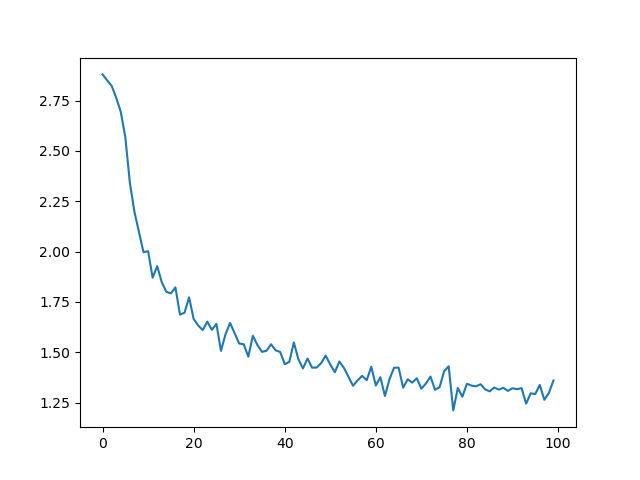
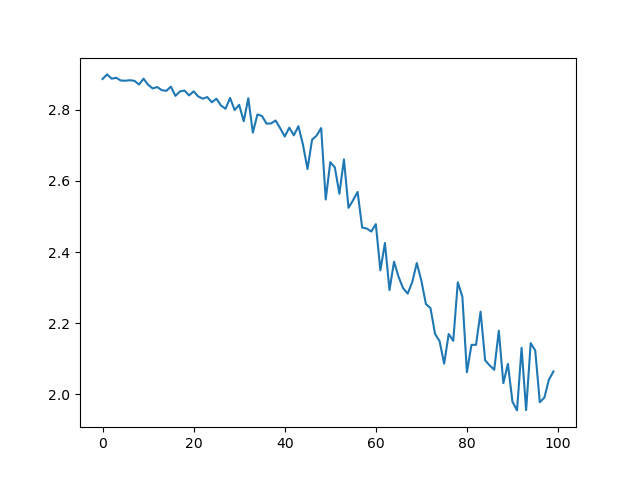
rnn calssified for names is working

diff --git a/my_research/rnn_name_classifiying.py b/my_research/rnn_name_classifiying.py
@@ -4,6 +4,9 @@ import os
 import unicodedata
 import string
 
+import math 
+import time
+import random
 import torch
 import torch.nn as nn
 
@@ -13,29 +16,34 @@ import torch.nn as nn
 
 
 class UtilityService:
-    def __init__(self):
-        self.DATA_PATH = 'my_research/data/'
-        self.all_letters = string.ascii_letters + " .,;'"
-        self.n_letters = len(self.all_letters)
+    DATA_PATH = 'my_research/data/'
+    all_letters = string.ascii_letters + " .,;'"
+    n_letters = len(all_letters)
     
     @staticmethod
     def findFiles(path):
         return glob.glob(path)
 
     # Turn a Unicode string to plain ASCII, thanks to https://stackoverflow.com/a/518232/2809427
-    @staticmethod
-    def unicodeToAscii(s):
+    def unicodeToAscii(self, s):
         return "".join(
             c
             for c in unicodedata.normalize("NFD", s)
-            if unicodedata.category(c) != "Mn" and c in UtilityService.all_letters
+            if unicodedata.category(c) != "Mn" and c in self.all_letters
     )
 
     # Read a file and split into lines
-    @staticmethod
-    def readLines(filename):
+    def readLines(self, filename):
         lines = open(filename, encoding="utf-8").read().strip().split("\n")
-        return [UtilityService.unicodeToAscii(line) for line in lines]
+        return [self.unicodeToAscii(line) for line in lines]
+    
+    @staticmethod
+    def timeSince(since):
+        now = time.time()
+        s = now - since
+        m = math.floor(s / 60)
+        s -= m * 60
+        return '%dm %ds' % (m, s)
 
 
 class CategoryService:
@@ -53,19 +61,14 @@ class CategoryService:
             lines = self._utility_service.readLines(filename)
             self.category_lines[category] = lines
             
-    def categoryFromOutput(self, output, all_categories):
+    def categoryFromOutput(self, output):
         top_n, top_i = output.topk(1)
         category_i = top_i[0].item()
-        return all_categories[category_i], category_i
+        return self.all_categories[category_i], category_i
 
-    # n_categories = len(all_categories)
-
-
-
-###########   PART 2   ################
 
 class TorchLetterUtilityService:
-    # Find letter index from all_letters, e.g. "a" = 0
+
     @staticmethod
     def letterToIndex(letter):
         return UtilityService.all_letters.find(letter)
@@ -85,10 +88,18 @@ class TorchLetterUtilityService:
         for li, letter in enumerate(line):
             tensor[li][0][TorchLetterUtilityService.letterToIndex(letter)] = 1
         return tensor
+    
+    @staticmethod
+    def randomChoice(l):
+        return l[random.randint(0, len(l) - 1)]
 
-
-#############      PART 3         #############
-
+    @staticmethod
+    def randomTrainingExample(category_service: CategoryService):
+        category = TorchLetterUtilityService.randomChoice(category_service.all_categories)
+        line = TorchLetterUtilityService.randomChoice(category_service.category_lines[category])
+        category_tensor = torch.tensor([category_service.all_categories.index(category)], dtype=torch.long)
+        line_tensor = TorchLetterUtilityService.lineToTensor(line)
+        return category, line, category_tensor, line_tensor
 
 
 class RNN(nn.Module):
@@ -156,99 +167,46 @@ class RNN(nn.Module):
                 category_index = topi[0][i].item()
                 print('(%.2f) %s' % (value, category_service.all_categories[category_index]))
                 predictions.append([value, category_service.all_categories[category_index]])
-    
-    
-
-category_service = CategoryService()
-utils = UtilityService()
-n_categories = len(category_service.all_categories)
-n_hidden = 128
-rnn = RNN(utils.n_letters, n_hidden, n_categories, category_service)
-
-
-
-###########     PART 4       #########
-
-import random
-
-def randomChoice(l):
-    return l[random.randint(0, len(l) - 1)]
-
-def randomTrainingExample():
-    category = randomChoice(all_categories)
-    line = randomChoice(category_lines[category])
-    category_tensor = torch.tensor([all_categories.index(category)], dtype=torch.long)
-    line_tensor = lineToTensor(line)
-    return category, line, category_tensor, line_tensor
-
-
-##############   PART 5     #########
-
-
-
-
-
-
-
-##############   PART 6    #########
-
-import time
-import math
-
-n_iters = 100000
-print_every = 5000
-plot_every = 1000
-
-# Keep track of losses for plotting
-current_loss = 0
-all_losses = []
-
-def timeSince(since):
-    now = time.time()
-    s = now - since
-    m = math.floor(s / 60)
-    s -= m * 60
-    return '%dm %ds' % (m, s)
-
 
 
 
 if __name__ == '__main__':
-    # print(findFiles(f"{DATA_PATH}names/*.txt"))
-    # print(unicodeToAscii("Ślusàrski"))
-    # print(f'All letters: {all_letters}, letters length: {n_letters}')   # 57 n_letters
-    # print(all_categories, category_lines['Polish'])
-    # print(category_lines['Italian'][:5])
-    # print(letterToTensor('J'), letterToTensor('K').shape)
-    # print(lineToTensor('Jones').size())
-    # print(n_categories)       #  18
-    # input = lineToTensor('Albert')
-    # hidden = torch.zeros(1, n_hidden)
-
-    # output, next_hidden = rnn(input[0], hidden)
-    # print(output)
-    # print(categoryFromOutput(output))
-    
     import matplotlib.pyplot as plt
     import matplotlib.ticker as ticker
+
+    
+    category_service = CategoryService()
+    utils = UtilityService()
+    n_categories = len(category_service.all_categories)
+    n_hidden = 128
+    rnn = RNN(utils.n_letters, n_hidden, n_categories, category_service)
+    
+    n_iters = 10000
+    print_every = 500
+    plot_every = 100
+
+    # Keep track of losses for plotting
+    current_loss = 0
+    all_losses = []
+
     
     for i in range(10):
-        category, line, category_tensor, line_tensor = randomTrainingExample()
+        category, line, category_tensor, line_tensor = TorchLetterUtilityService.randomTrainingExample(category_service)
         print('category =', category, '/ line =', line)
     
     
     start = time.time()
 
     for iter in range(1, n_iters + 1):
-        category, line, category_tensor, line_tensor = randomTrainingExample()
-        output, loss = train(category_tensor, line_tensor)
+        category, line, category_tensor, line_tensor = TorchLetterUtilityService.randomTrainingExample(category_service)
+        output, loss = rnn.train(category_tensor, line_tensor)
         current_loss += loss
 
         # Print ``iter`` number, loss, name and guess
         if iter % print_every == 0:
-            guess, guess_i = categoryFromOutput(output, category_service.all_categories)
+            guess, guess_i = category_service.categoryFromOutput(output)
             correct = '✓' if guess == category else '✗ (%s)' % category
-            print('%d %d%% (%s) %.4f %s / %s %s' % (iter, iter / n_iters * 100, timeSince(start), loss, line, guess, correct))
+            print('%d %d%% (%s) %.4f %s / %s %s' % (iter, iter / n_iters * 100, UtilityService.timeSince(start), loss, line, guess, correct))
 
         # Add current loss avg to list of losses
         if iter % plot_every == 0:
@@ -258,7 +216,7 @@ if __name__ == '__main__':
     # PLOT TRAIN VALIDATION LOSS      
     plt.figure()
     plt.plot(all_losses)
-    plt.savefig(f'{DATA_PATH}val_train_loss.png')
+    plt.savefig(f'{UtilityService.DATA_PATH}val_train_loss.png')
     
     # Keep track of correct guesses in a confusion matrix
     confusion = torch.zeros(n_categories, n_categories)
@@ -268,10 +226,10 @@ if __name__ == '__main__':
 
     # Go through a bunch of examples and record which are correctly guessed
     for i in range(n_confusion):
-        category, line, category_tensor, line_tensor = randomTrainingExample()
-        output = evaluate(line_tensor)
-        guess, guess_i = categoryFromOutput(output)
-        category_i = all_categories.index(category)
+        category, line, category_tensor, line_tensor = TorchLetterUtilityService.randomTrainingExample(category_service)
+        output = rnn.evaluate(line_tensor)
+        guess, guess_i = category_service.categoryFromOutput(output)
+        category_i = category_service.all_categories.index(category)
         confusion[category_i][guess_i] += 1
 
     # Normalize by dividing every row by its sum
@@ -285,16 +243,16 @@ if __name__ == '__main__':
     fig.colorbar(cax)
 
     # Set up axes
-    ax.set_xticklabels([''] + all_categories, rotation=90)
-    ax.set_yticklabels([''] + all_categories)
+    ax.set_xticklabels([''] + category_service.all_categories, rotation=90)
+    ax.set_yticklabels([''] + category_service.all_categories)
 
     # Force label at every tick
     ax.xaxis.set_major_locator(ticker.MultipleLocator(1))
     ax.yaxis.set_major_locator(ticker.MultipleLocator(1))
 
     # sphinx_gallery_thumbnail_number = 2
-    plt.savefig(f'{DATA_PATH}heatmap.png')
+    plt.savefig(f'{UtilityService.DATA_PATH}heatmap.png')
     
-    predict('Dovesky')
-    predict('Jackson')
-    predict('Satoshi')
+    rnn.predict('Dovesky')
+    rnn.predict('Jackson')
+    rnn.predict('Satoshi')
